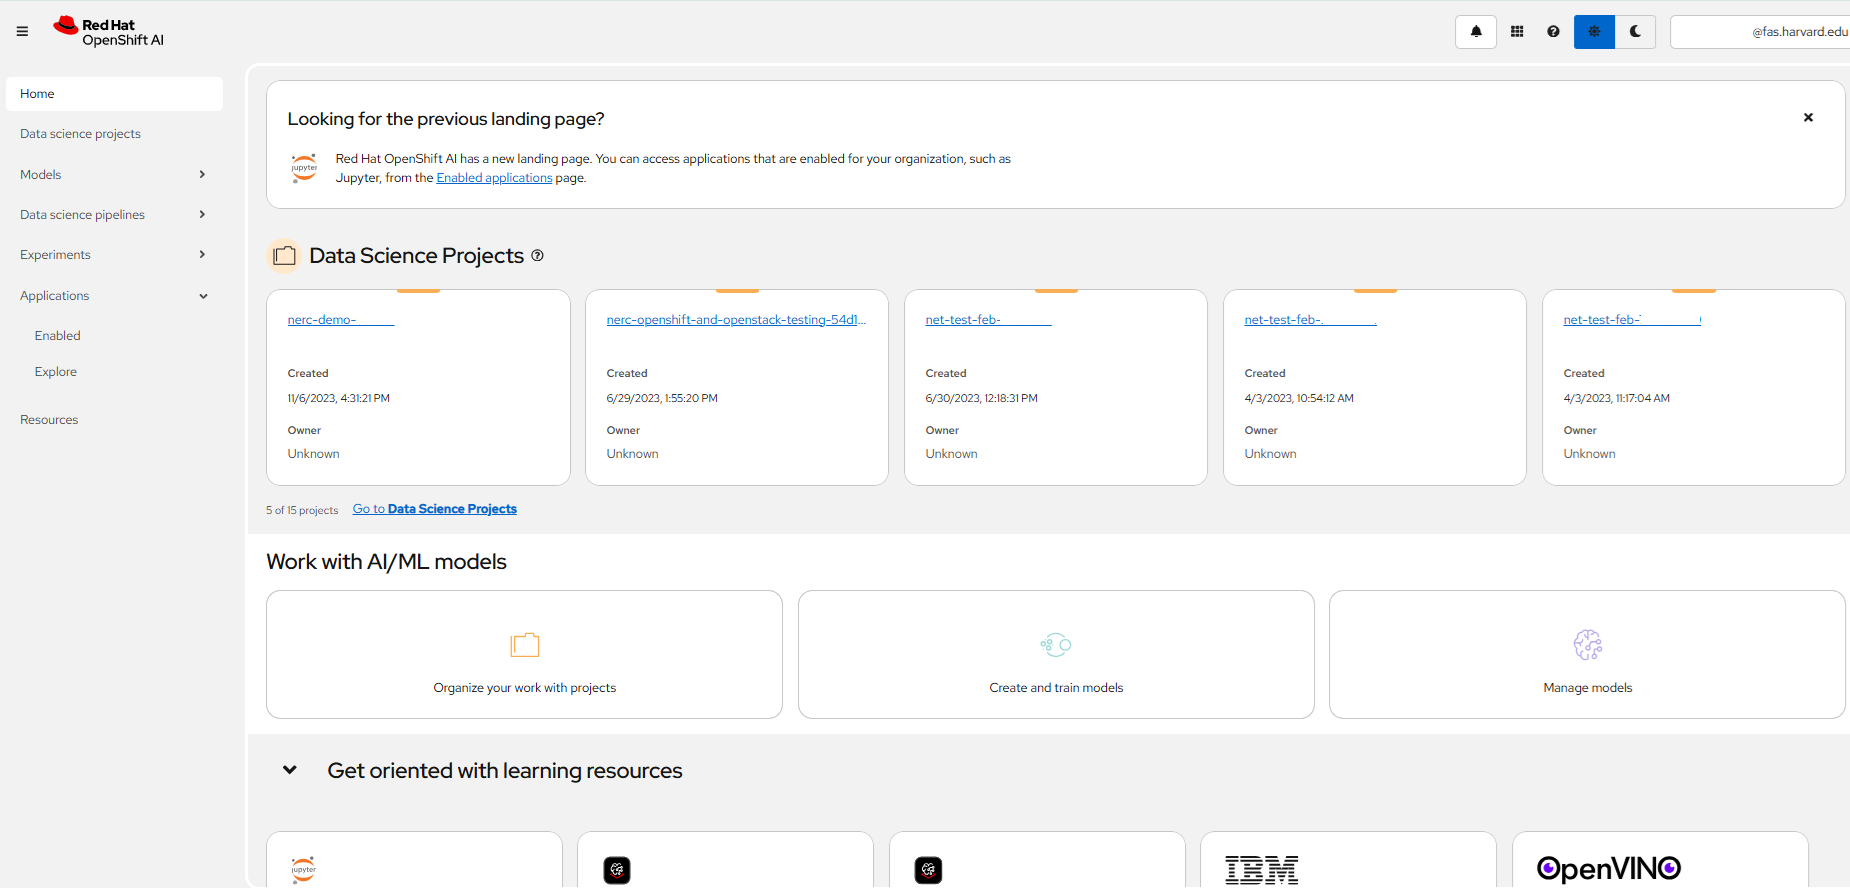
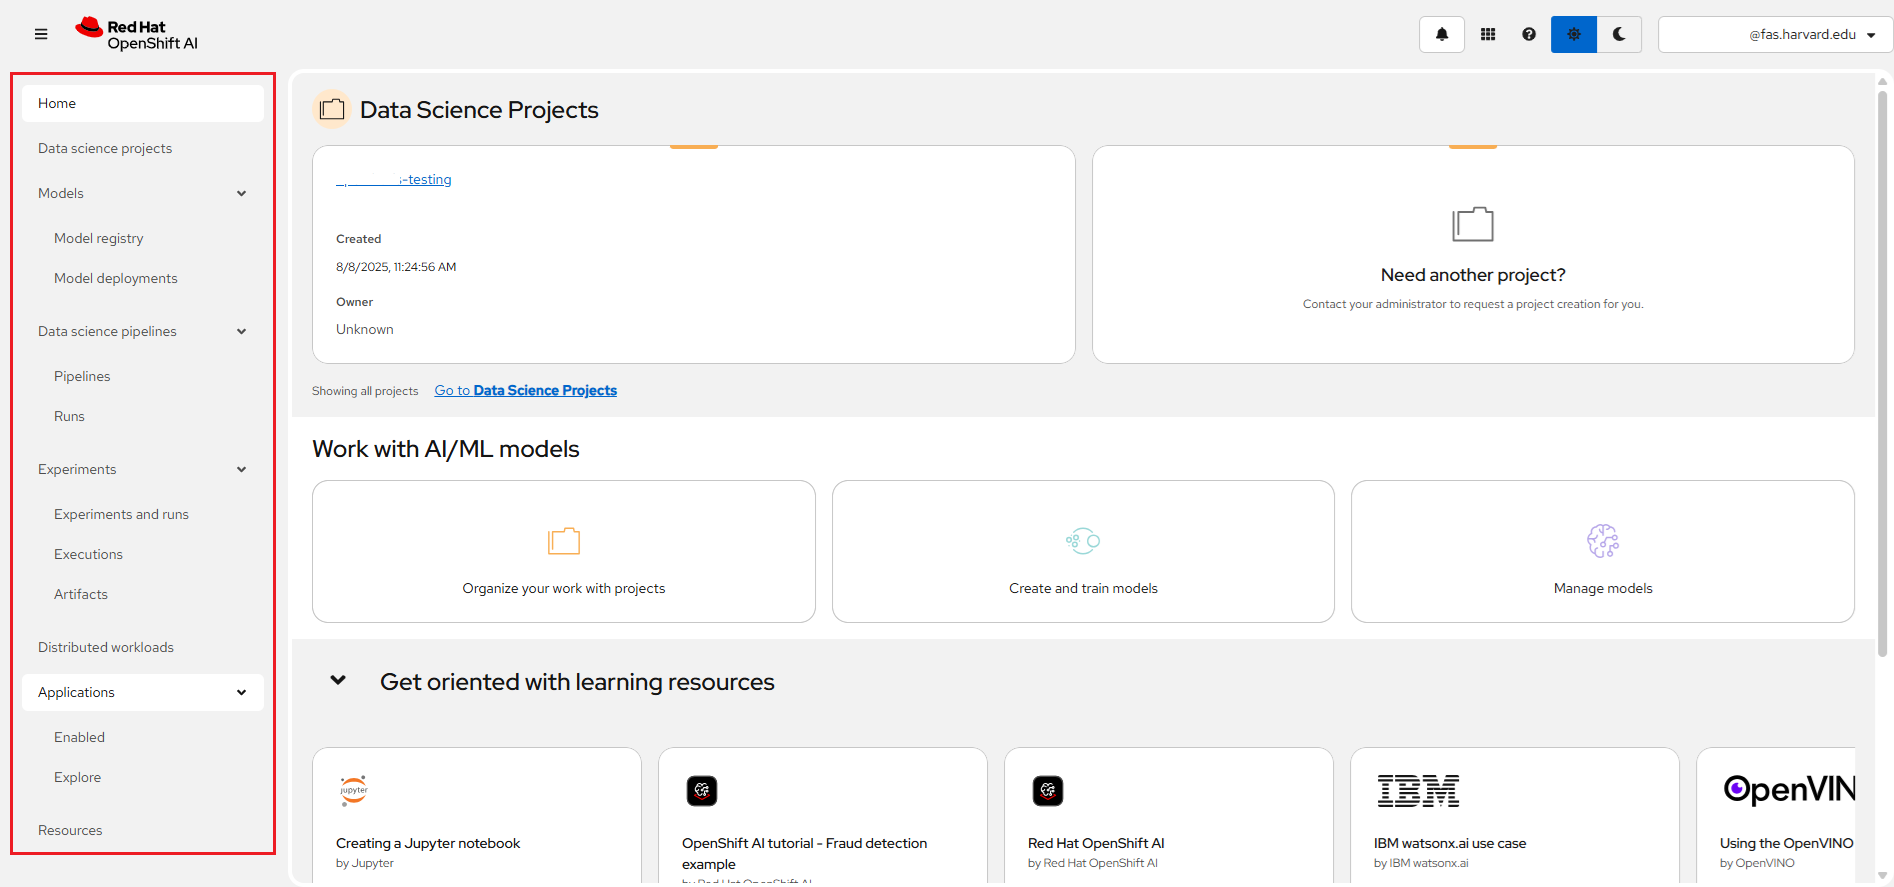
adding MLOps info

diff --git a/docs/openshift-ai/get-started/rhoai-overview.md b/docs/openshift-ai/get-started/rhoai-overview.md
@@ -1,16 +1,23 @@
 # Red Hat OpenShift AI (RHOAI) Overview
 
-RHOAI offers a versatile and scalable MLOps solution equipped with tools for
-rapid constructing, deploying, and overseeing AI-driven applications. Integrating
-the proven features of both Red Hat OpenShift AI and Red Hat OpenShift creates a
-comprehensive enterprise-grade artificial intelligence and machine learning (AI/ML)
-application platform, facilitating collaboration among data scientists, engineers,
-and app developers. This consolidated platform promotes consistency, security,
-and scalability, fostering seamless teamwork across disciplines and empowering
-teams to quickly explore, build, train, deploy, test machine learning models, and
-scale AI-enabled intelligent applications.
+NERC's Red Hat OpenShift AI (RHOAI) offers a versatile and scalable MLOps solution
+equipped with tools for rapid constructing, deploying, and overseeing AI-driven
+applications. Integrating the proven features of both Red Hat OpenShift AI and Red
+Hat OpenShift creates a comprehensive enterprise-grade artificial intelligence and
+machine learning (AI/ML) application platform, facilitating collaboration among
+data scientists, engineers, and app developers. NERC's RHOAI provides features
+such as multi-tenancy support and robust security for model serving, as well as
+integration with data services.
 
-Formerly known as Red Hat OpenShift Data Science, OpenShift AI facilitates the
+OpenShift AI streamlines workflows for data ingestion, model training, model serving,
+and observability, enabling seamless collaboration between teams. This consolidated
+platform promotes consistency, security, and scalability, fostering seamless teamwork
+across disciplines and empowering teams to quickly explore, build, train, deploy,
+test machine learning models, and scale AI-enabled intelligent applications.
+
+![Red Hat OpenShift AI Ecosystem](images/rhoai-ecosystem.png)
+
+Formerly known as *Red Hat OpenShift Data Science*, OpenShift AI facilitates the
 complete journey of AI/ML experiments and models. OpenShift AI enables data
 acquisition and preparation, model training and fine-tuning, model serving and
 model monitoring, hardware acceleration, and distributed workloads using
@@ -18,7 +25,46 @@ graphics processing unit (GPU) resources.
 
 ## AI for All
 
+### MLOps with Red Hat OpenShift AI
+
+Machine learning operations (MLOps) are a set of practices that automate and
+simplify machine learning (ML) workflows and deployments. MLOps encompasses
+the tools, platforms, and processes required to build, train, deploy, monitor,
+and continuously improve AI/ML models for cloud-native applications.
+
+To learn more about the end-to-end reference design for MLOps, read the blog:
+[Enterprise MLOps Reference Design](https://www.redhat.com/en/blog/enterprise-mlops-reference-design).
+
+### What is the ML lifecycle?
+
+The **ML lifecycle** is a multi-phase process that turns large, diverse datasets
+and ample compute - together with open-source ML tools - into intelligent applications.
+
+At a high level, it includes four stages:
+
+![AI/ML Lifecycle and MLOps ](images/ml-lifecycle-and-mlops.png)
+
+1. **Gather & prepare data** – Ensure data completeness and quality (cleaning,
+labeling, feature engineering).
+
+2. **Develop the model** – Train, validate, and select the model with the best performance.
+
+3. **Integrate & infer** – Deploy the model into applications/services and serve
+predictions.
+
+4. **Monitor & manage** – Track business/performance metrics, detect data/concept
+drift, and retrain as needed.
+
 Recent enhancements to Red Hat OpenShift AI include:
+
+![MLOps Using RHOAI](images/mlops-using-rhoai.png)
+
+-   **Model building and fine-tuning**: Data scientists can explore and develop
+    models in a [JupyterLab](https://jupyter.org/) interface using secure, prebuilt
+    notebook images that include popular Python libraries (e.g. [TensorFlow](https://www.tensorflow.org/),
+    [PyTorch](https://pytorch.org/)) and GPU support via CUDA. Organizations can
+    also supply custom notebook images, enabling teams to create and collaborate
+    on notebooks while organizing work across projects and workbenches.
 
 -   Implementation **Deployment pipelines** for monitoring AI/ML experiments and
     automating ML workflows accelerate the iteration process for data scientists
@@ -26,12 +72,22 @@ Recent enhancements to Red Hat OpenShift AI include:
     iteration on machine learning projects and embeds automation into application
     deployment and updates.
 
+-   **Model evaluation**: During model exploration and development, the LM Evaluation
+    (LM-Eval) component provides clear signals about model quality. It benchmarks
+    large language models (LLMs) across a range of tasks - such as logical and
+    mathematical reasoning and adversarial natural-language challenges - using
+    industry-standard benchmark suites.
+
 -   **Model serving** now incorporates GPU assistance for inference tasks and custom
     model serving runtimes, enhancing inference performance and streamlining the
-    deployment of foundational models.
+    deployment of foundational models. For generative AI workloads, OpenShift AI
+    provides **vLLM-powered**model inferencing, offering industry-leading performance
+    and efficiency across the most popular open source large language models (LLMs).
 
 -   With **Model monitoring**, organizations can oversee performance and operational
     metrics through a centralized dashboard, enhancing management capabilities.
+    Data scientists can use out-of-the-box visualizations for performance and operations
+    metrics or integrate data with other observability services.
 
 ## Red Hat OpenShift AI ecosystem
 
@@ -40,7 +96,7 @@ Recent enhancements to Red Hat OpenShift AI include:
 | AI/ML modeling and visualization tools | JupyterLab UI with prebuilt notebook images and common Python libraries and packages; TensorFlow; PyTorch, CUDA; and also support for custom notebook images                                     |
 | Data engineering                       | Support for different Data Engineering third party tools (optional)                                                                                                                              |
 | Data ingestion and storage             | Supports [Amazon Simple Storage Service (S3)](https://aws.amazon.com/s3/) and [NERC OpenStack Object Storage](../../openstack/persistent-storage/object-storage.md)                              |
-| GPU support                            | Available NVIDIA GPU Devices (with GPU operator): [NVIDIA-A100-SXM4-40GB (A100), NVIDIA-H100-80GB-HBM3 (H100), and Tesla-V100-PCIE-32GB (V100)](../../openshift/applications/scaling-and-performance-guide.md#how-to-select-a-different-gpu-device) |
+| GPU support                            | Available NVIDIA GPU Devices (with GPU operator): [NVIDIA-A100-SXM4-40GB (A100), NVIDIA-H100-80GB-HBM3 (H100), and Tesla-V100-PCIE-32GB (V100)](../../openshift/gpus/intro-to-gpus-on-nerc-ocp.md) |
 | Model serving and monitoring           | Model serving (KServe with user interface), model monitoring, OpenShift Source-to-Image (S2I), Red Hat OpenShift API Management (optional add-on), Intel Distribution of the OpenVINO toolkit    |
 | Data science pipelines                 | Data science pipelines (Kubeflow Pipelines) chain together processes like data preparation, build models, and serve models                                                                       |
 

diff --git a/docs/openshift-ai/logging-in/the-rhoai-dashboard-overview.md b/docs/openshift-ai/logging-in/the-rhoai-dashboard-overview.md
@@ -2,6 +2,8 @@
 
 In the NERC's RHOAI dashboard, you can see multiple links on your left hand side.
 
+![RHOAI Dashboard](images/the-rhoai-dashboard.png)
+
 1.  **Data Science Projects**: View your existing projects. This will show different
     projects corresponding to your NERC-OCP (OpenShift) resource allocations. Here,
     you can choose specific projects corresponding to the appropriate allocation
@@ -15,9 +17,16 @@ In the NERC's RHOAI dashboard, you can see multiple links on your left hand side
         but also on other types of IDEs, like VS Code or RStudio. You can create
         as many workbenches as you want, and they can run concurrently.
 
-2.  **Model**: Manage and view the health and performance of your deployed
+2.  **Models**: Manage and view the health and performance of your deployed
     models across different projects corresponding to your NERC-OCP (OpenShift)
     resource allocations.
+
+    -   _Model registry_: RHOAI provides a central place to view and manage registered
+        models, helping data scientists share, version, deploy and track predictive
+        and gen AI models, metadata and model artifacts. Model registries provide
+        a structured and organized way to store, share, version, deploy, and track
+        models. Users can select a model registry to view and manage your registered
+        models.
 
     -   _Model deployments_: Manage and view the health and performance of your
         deployed models. Also, you can "Deploy Model" to a specific project selected
@@ -38,16 +47,23 @@ In the NERC's RHOAI dashboard, you can see multiple links on your left hand side
     create an experiment to test different hyperparameter configurations, preprocessing
     strategies, or model architectures for the same dataset.
 
-5.  **Applications**:
+5. **Distributed workloads**: Distributed workloads help teams accelerate data
+    processing and the full ML lifecycle-training, tuning, and serving - by prioritizing
+    and distributing jobs for optimal node utilization. Advanced GPU support ensures
+    the performance and scalability required for foundation-model workloads.
+
+6.  **Applications**:
 
     -   _Enabled_: Launch your enabled applications, view documentation, or get
         started with quick start instructions and tasks.
 
     -   _Explore_: View optional applications for your RHOAI instance.
 
-        **NOTE**: Most of them are disabled by default on NERC RHOAI right now.
+    !!! warning "Important Note"
 
-6.  **Resources**: Access all learning resources that Resources showcases various
+        Most of Applications are **disabled by default** on NERC RHOAI right now.
+
+7.  **Resources**: Access all learning resources that Resources showcases various
     tutorials or demos helping your onboarding to the RHOAI platform.
 
 ---

diff --git a/docs/openshift-ai/data-science-project/model-serving-in-the-rhoai.md b/docs/openshift-ai/data-science-project/model-serving-in-the-rhoai.md
@@ -1,5 +1,13 @@
 # Model Serving in the NERC RHOAI
 
+## Model Serving Features
+
+![Model Serving Features](images/model-serving-features.png)
+
+## Model Serving Workflow
+
+![Model Serving Workflow](images/model-serving-workflow.png)
+
 **Prerequisites**:
 
 To run a **model server** and **deploy a model** on it, you need to have:
@@ -102,7 +110,9 @@ After creating the connection, you can add your model server. In the
 OpenShift AI dashboard, navigate to the data science project details page and
 click the **Models** tab. If this is the first time, then you will be able to choose
 the model serving type, either a **Single-model serving platform** or a
-**Multi-model serving platform** to be used when deploying from this project.
+**Multi-model serving platform** to be used when deploying from this project. The
+model-serving UI is integrated into the OpenShift AI dashboard and project workspaces,
+and cluster resources scale up or down with demand.
 
 ![Add A Model Server](images/add-a-model-server.png)
 
@@ -134,7 +144,9 @@ In the pop-up window that appears, you can specify the following details:
 
 -   **Serving runtime**: Select a model-serving runtime framework from the available
     options in your OpenShift Data Science deployment. This framework is used to
-    deploy and serve machine learning models.
+    deploy and serve machine learning models. For LLMs that need maximum scalability
+    and throughput, OpenShift AI offers parallelized, multi-node serving with
+    **vLLM runtimes** to handle high volumes of concurrent, real-time requests.
 
 -   **Model framework (name - version)**: This will be auto selected based on your
     Serving runtime selection.

diff --git a/docs/openshift/storage/storage-overview.md b/docs/openshift/storage/storage-overview.md
@@ -53,6 +53,12 @@ to a pod please [read this](../applications/scaling-and-performance-guide.md#com
 You can also use an **in-memory** `emptyDir` (RAM-backed tmpfs) on OpenShift that
 is fast, shared by all containers in the Pod, and wiped when the Pod goes away.
 
+For a Pod that defines an `emptyDir` volume, the volume is created when the Pod
+is scheduled onto a node. As the name implies, it starts empty. All containers
+in the Pod can read and write the same files in the `emptyDir`, which can be
+mounted at the same or different paths in each container. When the Pod is removed
+from the node for any reason, the `emptyDir` and its data are permanently deleted.
+
 ##### What it is (and why)
 
 - Set `emptyDir.medium: "Memory"` to mount a **tmpfs** inside the Pod.
@@ -63,6 +69,20 @@ is fast, shared by all containers in the Pod, and wiped when the Pod goes away.
 
 - Files written there **count against the container's memory limit** (not `ephemeral-storage`).
 To learn more about defining CPU and memory, read [this user guide](../applications/scaling-and-performance-guide.md#how-to-define-cpu-and-memory).
+
+**Common uses for an `emptyDir` volume include:**
+
+- Scratch space (e.g., for a disk-based merge sort)
+
+- Checkpointing long-running computations for crash recovery
+
+- Staging files that a content-fetcher/manager container downloads while a web
+server container serves them
+
+!!! note "Note"
+
+    A container crashing does not remove a Pod from a node. The data in an `emptyDir`
+    volume is safe across container crashes.
 
 ##### YAML example
 

diff --git a/docs/openshift-ai/other-projects/predictive-and-generative-AI.md b/docs/openshift-ai/other-projects/predictive-and-generative-AI.md
@@ -98,6 +98,39 @@ such as chatbots, document processing, and AI-powered automation.
     You can deploy and run the AnythingLLM directly on the NERC RHOAI by following
     [these intructions](LLM-client-AnythingLLM.md).
 
+### Language Model Evaluation
+
+⦿ **Overview**
+
+- LLM Evaluation capabilities provides secure, standardized framework for AI model
+assessment
+
+- Integrates LM-evaluation-harness with Unitxt task cards for benchmarking without
+custom code
+
+- Enables data scientists and AI engineers to easily deploy jobs testing metrics
+like toxicity and accuracy
+
+- Advances AI quality assurance and model governance capabilities
+
+⦿ **Why does it matter?**
+
+- Enhancing Quality Assurance: Test models against both industrystandard and proprietary
+benchmarks
+
+- Simplifying Compliance: Standardized evaluation metrics help meet regulatory and
+governance requirements
+
+- Boosting Security: Secure evaluation environment with configurable data isolation
+protects sensitive information
+
+- Accelerating Development: Quick feedback cycles on model performance speed up
+iteration and improvement
+
+⦿ **References**
+
+To learn more about evaluating large language models, read [this documentation](https://docs.redhat.com/en/documentation/red_hat_openshift_ai_self-managed/2.19/html/monitoring_data_science_models/evaluating-large-language-models_monitor).
+
 ### Quantization
 
 Model quantization reduces computational and memory demands by converting model

diff --git a/docs/openshift-ai/other-projects/fraud-detection-predictive-ai-app.md b/docs/openshift-ai/other-projects/fraud-detection-predictive-ai-app.md
@@ -807,8 +807,16 @@ values, which you have retrieved while "Editing connection":
 
 ![MLflow Route Environment Variable](images/mlflow-route-environment-var.png)
 
-Once you execute the provided `model.ipynb`, you'll be able to track the entire
-training lifecycle by navigating to your MLflow tracking server at: `https://mlflow-route-<your-namespace>.apps.shift.nerc.mghpcc.org`.
+Once you execute the provided `model.ipynb`, the training process logs model
+parameters, metrics, and artifacts to the MLflow tracking server. After training
+and tuning hyperparameters, the final model artifact is logged to the tracking
+server to record a link between the model, the input data it was trained on, and
+the code used to generate it.
+
+![MLflow Logging](images/mlflow-logging.png)
+
+You'll be able to track the entire training lifecycle by navigating to your MLflow
+tracking server at: `https://mlflow-route-<your-namespace>.apps.shift.nerc.mghpcc.org`.
 
 ### 4. Preparing a model for deployment
 

diff --git a/docs/openshift-ai/data-science-project/explore-the-jupyterlab-environment.md b/docs/openshift-ai/data-science-project/explore-the-jupyterlab-environment.md
@@ -70,7 +70,9 @@ on the **Git Clone** icon in the toolbar, as shown below:
 !!! info "What is MLOps?"
 
     Machine learning operations (MLOps) are a set of practices that automate and
-    simplify machine learning (ML) workflows and deployments.
+    simplify machine learning (ML) workflows and deployments. MLOps encompasses
+    the tools, platforms, and processes required to build, train, deploy, monitor,
+    and continuously improve AI/ML models for cloud-native applications.
 
     To learn more about the end-to-end reference design for MLOps, read the blog:
     [Enterprise MLOps Reference Design](https://www.redhat.com/en/blog/enterprise-mlops-reference-design).

diff --git a/docs/openshift-ai/data-science-project/testing-model-in-the-rhoai.md b/docs/openshift-ai/data-science-project/testing-model-in-the-rhoai.md
@@ -177,4 +177,12 @@ There are two parameters you can change on this application:
     you see, these values could be adjusted in real time, and this could even be
     based on another ML model!
 
+### Model Performance Metrics
+
+Access a comprehensive set of model performance metrics to build custom visualizations
+or integrate with your observability stack - complete with out-of-the-box performance
+and operations dashboards - by clicking the deployed model's name.
+
+![Model Performance Metrics](images/model-performance-metrics.png)
+
 ---
